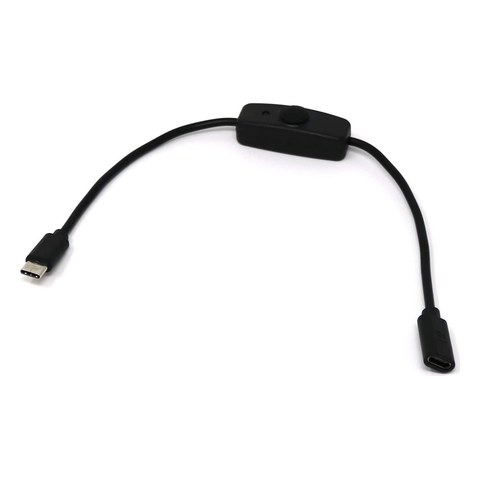
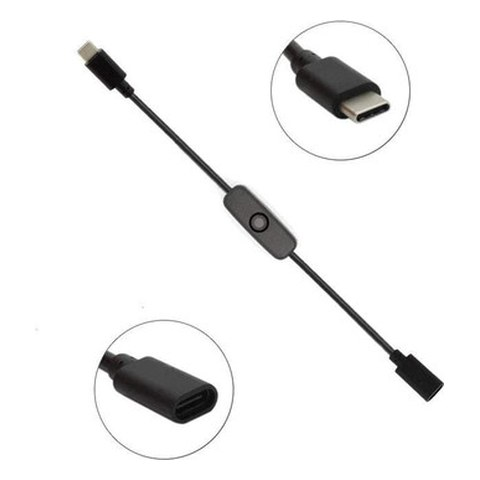
Parts list renamed PARTS-BOM.md, with the Canadian stores
The parts list is now docs/PARTS-BOM.md and ends with the stores where
each part was bought. The master switch is one sold in Canada. Packs
say in bold that the radio uses 1. The wiring drawings show the Pi's
picture on every Pi box, and the lamp drawing shows the four ends of
the USB-A socket on wires.

diff --git a/tests/test_repo.py b/tests/test_repo.py
@@ -115,7 +115,7 @@ class Guides(unittest.TestCase):
     """The guides and what they show: the parts list, the pictures set side by side, the case plans."""
 
     def test_the_parts_list_has_21_parts_each_with_its_label_quantity_and_sheet(self):
-        text = read("docs", "BOM.md")
+        text = read("docs", "PARTS-BOM.md")
         rows = re.findall(r"^\| \*\*(A\d+)\*\* \| <img [^|]*\| \[[^]]+\]\(#(a\d+)\) \| ([^|]+) \|", text, re.M)
         self.assertEqual([r[0] for r in rows], ["A%d" % n for n in range(1, 22)])
         for label, anchor, qty in rows:

diff --git a/docs/PARTS-BOM.md b/docs/PARTS-BOM.md
@@ -5,7 +5,7 @@ The radio has 21 parts, labelled A1 to A21. The drawings in [WIRING.md](WIRING.m
 version 1.0: **wired** means it is part of the bench build, and **planned** means it is in the design and not connected
 yet.
 
-The references are the parts I ordered, except A16, A20 and A21, which I picked and have not ordered yet. Any
+The references are the parts I ordered, except A12, A16, A19, A20 and A21, which I picked and have not ordered yet. Any
 equivalent part works, except where a note says otherwise. The sizes and the electrical values come from each maker's
 or seller's page, read between 10 and 16 November 2026. I have measured none of them myself. The openings of the case
 are another matter: they are measured in its print files.
@@ -15,7 +15,7 @@ are another matter: they are measured in its print files.
 | No. | &nbsp;&nbsp;&nbsp;&nbsp;&nbsp;&nbsp;&nbsp;&nbsp;&nbsp;&nbsp;&nbsp;&nbsp;&nbsp;&nbsp;&nbsp;&nbsp;&nbsp;&nbsp;&nbsp;&nbsp;&nbsp;&nbsp;&nbsp;&nbsp; | Part | Qty | What it does | In version 1.0 |
 |---|---|---|---|---|---|
 | **A1** | <img src="images/parts/a01-raspberry-pi-4.jpg" width="96" alt="Raspberry Pi 4 Model B, 1 GB"> | [Raspberry Pi 4 Model B, 1 GB](#a1) | **×1** | Runs the radio program, plays the sounds and drives the screens | Wired |
-| **A2** | <img src="images/parts/a02-power-supply.jpg" width="96" alt="USB-C power supply, 5.1 V 3 A"> | [USB-C power supply, 5.1 V 3 A](#a2) | **×1, in the A1 kit** | Powers the whole radio through one cable | Wired |
+| **A2** | <img src="images/parts/a02-power-supply.jpg" width="96" alt="USB-C power supply, 5.1 V 3 A"> | [USB-C power supply, 5.1 V 3 A](#a2) | **×1, came with A1** | Powers the whole radio through one cable | Wired |
 | **A3** | <img src="images/parts/a03-microsd-card.jpg" width="96" alt="microSD card, 32 GB"> | [microSD card, 32 GB](#a3) | **×1** | Holds Raspberry Pi OS and the radio program | Wired |
 | **A4** | <img src="images/parts/a04-sd-adapter.jpg" width="96" alt="microSD to SD adapter"> | [microSD to SD adapter](#a4) | **×1** | Lets a computer's SD slot write the card | Wired |
 | **A5** | <img src="images/parts/a05-bar-display.jpg" width="96" alt="3.7 in bar display, 240 × 960 pixels"> | [3.7 in bar display, 240 × 960 pixels](#a5) | **×2** | Shows the frequency, the channel and the spectrum. The two sit end to end behind the window | One wired, one planned |
@@ -44,8 +44,8 @@ Five notes on these parts.
   240 × 960 bar.
 - **Use wires with a socket at each end on the Pi's pins.** The bench build first used crocodile clip leads. Their
   clips are too wide for pins that sit 2.54 mm apart and they did not hold, so A19 replaces them.
-- **A2 comes with A1 in the kit.** The Pi kit I ordered has its power supply in the box. Buy A2 only if your Pi
-  came without one. The radio needs one supply.
+- **A2 comes with A1 in the kit.** My Pi came with its power supply in the same order. Buy A2 only if your Pi
+  comes without one. The radio needs one supply.
 - **One cable powers everything.** The supply A2 plugs into the socket A20 on the back. Inside, the switch cable A21
   takes the power to the Pi, and the Pi powers every other part through its USB ports and its header.
   [WIRING.md](WIRING.md#power) shows the path.
@@ -58,13 +58,13 @@ One sheet for each part, in the order of the list.
 
 | | |
 |---|---|
-| <img src="images/parts/a01-raspberry-pi-4.jpg" width="200" alt="Raspberry Pi 4 Model B, 1 GB"> | Runs the radio program, plays the sounds and drives the screens. Every other part takes its power from it.<br><br>**Quantity:** ×1<br>**In version 1.0:** wired<br>**Reference:** PiShop 1GB-9002, a kit with a power supply (A2) and 3 heat sinks<br>**Connects:** Every other part connects to it. [The diagram](WIRING.md#every-part-and-every-link) shows each link.<br>**Processor:** Broadcom BCM2711, four Cortex-A72 cores<br>**Memory:** 1 GB<br>**Ports:** 2 USB 3.0, 2 USB 2.0, USB-C for power<br>**Header:** 40 pins<br>**Audio:** 3.5 mm jack, 4 poles<br>**Board:** 85 × 56 mm<br>**Maker's page:** https://datasheets.raspberrypi.com/rpi4/raspberry-pi-4-product-brief.pdf |
+| <img src="images/parts/a01-raspberry-pi-4.jpg" width="200" alt="Raspberry Pi 4 Model B, 1 GB"> | Runs the radio program, plays the sounds and drives the screens. Every other part takes its power from it.<br><br>**Quantity:** ×1<br>**In version 1.0:** wired<br>**Reference:** PiShop 1GB-9002, bought with a power supply (A2) and 3 heat sinks<br>**Connects:** Every other part connects to it. [The diagram](WIRING.md#every-part-and-every-link) shows each link.<br>**Processor:** Broadcom BCM2711, four Cortex-A72 cores<br>**Memory:** 1 GB<br>**Ports:** 2 USB 3.0, 2 USB 2.0, USB-C for power<br>**Header:** 40 pins<br>**Audio:** 3.5 mm jack, 4 poles<br>**Board:** 85 × 56 mm<br>**Maker's page:** https://datasheets.raspberrypi.com/rpi4/raspberry-pi-4-product-brief.pdf |
 
 ### <a id="a2"></a>A2. USB-C power supply, 5.1 V 3 A
 
 | | |
 |---|---|
-| <img src="images/parts/a02-power-supply.jpg" width="200" alt="USB-C power supply, 5.1 V 3 A"> | Powers the whole radio. Its cable is the only one that leaves the case: it plugs into the socket A20 on the back.<br><br>**Quantity:** ×1, in the A1 kit<br>**In version 1.0:** wired<br>**Reference:** The supply that came in the box with A1. Raspberry Pi's own 15 W USB-C supply is the model to buy on its own, and the one the switch cable A21 is made for.<br>**Connects:** Its cable plugs into the socket A20, direct. On the bench it plugs straight into the Pi.<br>**Output:** 5.1 V, 3 A<br>**Plug:** USB-C. On Raspberry Pi's own supply it ends a 1.5 m cable that does not come off.<br>**Maker's page:** https://www.raspberrypi.com/products/type-c-power-supply/ |
+| <img src="images/parts/a02-power-supply.jpg" width="200" alt="USB-C power supply, 5.1 V 3 A"> | Powers the whole radio. Its cable is the only one that leaves the case: it plugs into the socket A20 on the back.<br><br>**Quantity:** ×1, came with A1<br>**In version 1.0:** wired<br>**Reference:** The supply that came with A1 in my order. Raspberry Pi's own 15 W USB-C supply is the model to buy on its own, and the one the switch cable A21 is made for.<br>**Connects:** Its cable plugs into the socket A20, direct. On the bench it plugs straight into the Pi.<br>**Output:** 5.1 V, 3 A<br>**Plug:** USB-C. On Raspberry Pi's own supply it ends a 1.5 m cable that does not come off.<br>**Maker's page:** https://www.raspberrypi.com/products/type-c-power-supply/ |
 
 ### <a id="a3"></a>A3. microSD card, 32 GB
 
@@ -118,13 +118,13 @@ One sheet for each part, in the order of the list.
 
 | | |
 |---|---|
-| <img src="images/parts/a11-step-up-cable.jpg" width="200" alt="USB 5 V to 12 V step-up cable"> | The meters' lamps need 12 V and the Pi only has 5 V. This cable takes 5 V on its USB-A plug and gives 12 V on two bare wires, red for + and black for −. Its plug goes into the socket A12, and its two wires go to the lamps of the two meters.<br><br>**Quantity:** ×1<br>**In version 1.0:** planned<br>**Reference:** SinLoon, Amazon B0F2YKGS25. It comes in a pack of 3.<br>**Connects:** Its USB plug goes into A12, direct. Its red and black wires go to the lamps of A9, direct.<br>**Input:** USB-A plug, 5 V, 2 A at most<br>**Output:** 12 V, 0.8 A at most, on bare wires<br>**Length:** 88 cm |
+| <img src="images/parts/a11-step-up-cable.jpg" width="200" alt="USB 5 V to 12 V step-up cable"> | The meters' lamps need 12 V and the Pi only has 5 V. This cable takes 5 V on its USB-A plug and gives 12 V on two bare wires, red for + and black for −. Its plug goes into the socket A12, and its two wires go to the lamps of the two meters.<br><br>**Quantity:** ×1<br>**In version 1.0:** planned<br>**Reference:** SinLoon, Amazon B0F2YKGS25. It comes in a pack of 3: **the radio uses 1**.<br>**Connects:** Its USB plug goes into A12, direct. Its red and black wires go to the lamps of A9, direct.<br>**Input:** USB-A plug, 5 V, 2 A at most<br>**Output:** 12 V, 0.8 A at most, on bare wires<br>**Length:** 88 cm |
 
 ### <a id="a12"></a>A12. USB-A socket on four jumper wires
 
 | | |
 |---|---|
-| <img src="images/parts/a12-usb-a-socket-on-wires.jpg" width="200" alt="USB-A socket on four jumper wires"> | The four USB ports of the Pi are taken by the two Qualia boards, the keypad and the sound adapter. This short cable gives the step-up cable A11 a fifth USB-A socket, fed from two pins of the Pi's header. Only its red and black wires are used.<br><br>**Quantity:** ×1<br>**In version 1.0:** planned<br>**Reference:** Adafruit 4449<br>**Connects:** Its red and black ends slide onto pins 4 and 34 of the Pi, direct. A11 plugs into its socket.<br>**Socket:** USB-A female, on a 30 cm cable<br>**Wires:** Four female ends spaced 2.54 mm. Red is 5 V and goes to pin 4. Black is ground and goes to pin 34. Green and white are the data lines and stay free, each one insulated.<br>**Maker's page:** https://www.adafruit.com/product/4449 |
+| <img src="images/parts/a12-usb-a-socket-on-wires.jpg" width="200" alt="USB-A socket on four jumper wires"> | The four USB ports of the Pi are taken by the two Qualia boards, the keypad and the sound adapter. This short cable gives the step-up cable A11 a fifth USB-A socket, fed from two pins of the Pi's header. Only its red and black wires are used.<br><br>**Quantity:** ×1<br>**In version 1.0:** planned<br>**Reference:** Adafruit 4449. I have not ordered it yet.<br>**Connects:** Its red and black ends slide onto pins 4 and 34 of the Pi, direct. A11 plugs into its socket.<br>**Socket:** USB-A female, on a 30 cm cable<br>**Wires:** Four female ends spaced 2.54 mm. Red is 5 V and goes to pin 4. Black is ground and goes to pin 34. Green and white are the data lines and stay free, each one insulated.<br>**Maker's page:** https://www.adafruit.com/product/4449 |
 
 ### <a id="a13"></a>A13. MonkMakes Amplified Speaker 2
 
@@ -160,13 +160,13 @@ One sheet for each part, in the order of the list.
 
 | | |
 |---|---|
-| <img src="images/parts/a18-trrs-plug.jpg" width="200" alt="3.5 mm TRRS plug with screw terminals"> | A 3.5 mm plug whose four contacts end in screw terminals. The microphone's two audio wires, from the socket A16, are screwed in here, and the plug goes into the jack of the sound adapter A17. No soldering at this end.<br><br>**Quantity:** ×1<br>**In version 1.0:** planned<br>**Reference:** Amazon B08QFHHJ3Z. It comes in a pack of 2.<br>**Connects:** Plugs into the jack of A17, direct. The wires from A16 go into its screw terminals.<br>**Plug:** 3.5 mm male, 4 poles<br>**Terminals:** 4 screw terminals<br>**Length:** 32 cm |
+| <img src="images/parts/a18-trrs-plug.jpg" width="200" alt="3.5 mm TRRS plug with screw terminals"> | A 3.5 mm plug whose four contacts end in screw terminals. The microphone's two audio wires, from the socket A16, are screwed in here, and the plug goes into the jack of the sound adapter A17. No soldering at this end.<br><br>**Quantity:** ×1<br>**In version 1.0:** planned<br>**Reference:** Amazon B08QFHHJ3Z. It comes in a pack of 2: **the radio uses 1**.<br>**Connects:** Plugs into the jack of A17, direct. The wires from A16 go into its screw terminals.<br>**Plug:** 3.5 mm male, 4 poles<br>**Terminals:** 4 screw terminals<br>**Length:** 32 cm |
 
 ### <a id="a19"></a>A19. Female-to-female jumper wires, 30 cm
 
 | | |
 |---|---|
-| <img src="images/parts/a19-jumper-wires.jpg" width="200" alt="Female-to-female jumper wires, 30 cm"> | Join the Pi's header to the speaker's pins, to the needles and to the push-to-talk wires. A socket at each end slides onto a pin, so nothing is clipped.<br><br>**Quantity:** ×1 strip of 20<br>**In version 1.0:** wired<br>**Reference:** Adafruit 1949<br>**Connects:** 12 of the 20: two for the speaker, three for each needle, two for the push-to-talk button, two from the microphone socket to A18.<br>**Ends:** Female at both ends, spaced 2.54 mm<br>**Length:** 30 cm<br>**Wire:** 28 AWG, in a ribbon of 20 that peels apart<br>**Maker's page:** https://www.adafruit.com/product/1949 |
+| <img src="images/parts/a19-jumper-wires.jpg" width="200" alt="Female-to-female jumper wires, 30 cm"> | Join the Pi's header to the speaker's pins, to the needles and to the push-to-talk wires. A socket at each end slides onto a pin, so nothing is clipped.<br><br>**Quantity:** ×1 strip of 20<br>**In version 1.0:** wired<br>**Reference:** Adafruit 1949. I have not ordered it yet.<br>**Connects:** 12 of the 20: two for the speaker, three for each needle, two for the push-to-talk button, two from the microphone socket to A18.<br>**Ends:** Female at both ends, spaced 2.54 mm<br>**Length:** 30 cm<br>**Wire:** 28 AWG, in a ribbon of 20 that peels apart<br>**Maker's page:** https://www.adafruit.com/product/1949 |
 
 ### <a id="a20"></a>A20. USB-C panel socket on a 30 cm cable
 
@@ -178,7 +178,37 @@ One sheet for each part, in the order of the list.
 
 | | |
 |---|---|
-| <img src="images/parts/a21-switch-cable.jpg" width="200" alt="USB-C cable with an on and off switch"> | The master switch: one click cuts the power of the whole radio, and a red light shows when it is on.<br><br>**Quantity:** ×1<br>**In version 1.0:** planned<br>**Reference:** The Pi Hut 102509. I have not ordered it yet.<br>**Connects:** From the cable of A20 to the Pi's USB-C port, direct.<br>**Ends:** USB-C female to USB-C male<br>**Length:** About 31 cm<br>**Switch:** Push to turn on, push again to turn off, with a red light<br>**Use:** Made for the Raspberry Pi 4 with its own power supply. It passes power only, no data.<br>**Maker's page:** https://thepihut.com/products/usb-c-cable-with-switch |
+| <img src="images/parts/a21-switch-cable.jpg" width="200" alt="USB-C cable with an on and off switch"> | The master switch: one press cuts the power of the whole radio.<br><br>**Quantity:** ×1<br>**In version 1.0:** planned<br>**Reference:** PiShop, Power Switch for Raspberry Pi 4, USB-C. I have not ordered it yet.<br>**Connects:** From the cable of A20 to the Pi's USB-C port, direct.<br>**Ends:** USB-C female, where the cable of A20 plugs in, to USB-C male, which goes into the Pi<br>**Length:** 27 cm<br>**Switch:** A button in the middle of the cable<br>**Use:** Made for the Raspberry Pi 4 with its usual supply. It passes power only, no data. It does not work with a Raspberry Pi 5.<br>**Seller's page:** https://www.pishop.ca/product/power-switch-for-raspberry-pi-4-usb-c/ |
+
+## Where I bought them, in Canada
+
+I live in Canada and bought the parts from these stores. I cannot say what is sold in your country. Where a part
+comes from a maker such as Adafruit, Raspberry Pi or MonkMakes, the maker's own page lists its sellers around the
+world.
+
+| No. | Store | Page |
+|---|---|---|
+| **A1** | PiShop | <https://www.pishop.ca/product/raspberry-pi-4-model-b-1gb/> |
+| **A2** | PiShop | <https://www.pishop.ca/product/raspberry-pi-15w-power-supply-us-black/> |
+| **A3** | Amazon.ca | <https://www.amazon.ca/dp/B08KSSXKYR> |
+| **A4** | Digi-Key | <https://www.digikey.ca/en/products/result?keywords=1528-5447-ND> |
+| **A5** | Digi-Key | <https://www.digikey.ca/en/products/result?keywords=1528-5799-ND> |
+| **A6** | Digi-Key | <https://www.digikey.ca/en/products/result?keywords=1528-5800-ND> |
+| **A7** | PiShop | <https://www.pishop.ca/product/usb-type-c-to-usb-2-0-a-male-cable-3ft/> |
+| **A8** | Amazon.ca | <https://www.amazon.ca/dp/B0DN9T9J75> |
+| **A9** | Amazon.ca | <https://www.amazon.ca/dp/B0GV1VC7PZ> |
+| **A10** | PiShop | <https://www.pishop.ca/product/breadboard-trim-potentiometer-10k/> |
+| **A11** | Amazon.ca | <https://www.amazon.ca/dp/B0F2YKGS25> |
+| **A12** | Digi-Key, not bought yet | <https://www.digikey.ca/en/products/result?keywords=adafruit%204449> |
+| **A13** | PiShop | <https://www.pishop.ca/product/amplified-speaker-2-for-raspberry-pi-arduino/> |
+| **A14** | Amazon.ca | <https://www.amazon.ca/dp/B08F2GRHXC> |
+| **A15** | Amazon.ca | <https://www.amazon.ca/dp/B008CLIB5K> |
+| **A16** | CB Radio Supply, in the United States, not bought yet | <https://cbradiosupply.com/products/cb-radio-accessories-workman-c-4p-replacement-4-pin-cb-radio-microphone-panel-jack-mount> |
+| **A17** | Amazon.ca | <https://www.amazon.ca/dp/B07RS11M1T> |
+| **A18** | Amazon.ca | <https://www.amazon.ca/dp/B08QFHHJ3Z> |
+| **A19** | Digi-Key, not bought yet | <https://www.digikey.ca/en/products/result?keywords=adafruit%201949> |
+| **A20** | Digi-Key, not bought yet | <https://www.digikey.ca/en/products/result?keywords=adafruit%204218> |
+| **A21** | PiShop, not bought yet | <https://www.pishop.ca/product/power-switch-for-raspberry-pi-4-usb-c/> |
 
 ## Where the pictures come from
 

diff --git a/docs/WIRING.md b/docs/WIRING.md
@@ -4,7 +4,7 @@ This guide has two parts. The first is the bench build of version 1.0: seven con
 second is the plan for the whole radio, with its meters, its microphone and its second screen. I have built and tested
 the first part. The second part is a design that I have not built yet.
 
-The drawings and the tables name each part by its label in [the parts list](BOM.md), from A1 to A21.
+The drawings and the tables name each part by its label in [the parts list](PARTS-BOM.md), from A1 to A21.
 
 ## How the parts connect
 
@@ -20,7 +20,7 @@ the power on to the Pi. [Power](#power) shows that path.
 
 ## Every part and every link
 
-Each link is marked one of two ways. A yellow chip names the part from [the parts list](BOM.md) that makes the link.
+Each link is marked one of two ways. A yellow chip names the part from [the parts list](PARTS-BOM.md) that makes the link.
 "direct" means the two plug into each other with nothing between them.
 
 ![Every part of the finished radio, and every link between them](images/wiring/every-link.png)
@@ -33,7 +33,7 @@ Five parts are there only to make a link, and the drawing shows where each one s
 | A17, the USB sound adapter | The Pi has a sound output and no microphone input. A17 plugs into a USB-A port and adds one. |
 | A18, the TRRS plug with screws | It is the plug that goes into A17's jack. The two sound wires of the microphone socket A16 are screwed into it. |
 | A12, the USB-A socket on wires | The Pi's four USB-A ports are taken: two Qualia boards, the keypad and A17. A12 is a fifth socket, for power only, fed by pins 4 and 34 of the header. |
-| A11, the step-up cable | The meters' lamps need 12 V. A11 plugs into A12, takes its 5 V and gives 12 V on two wires that go to the lamps. It comes in a pack of 3, and the radio uses one. |
+| A11, the step-up cable | The meters' lamps need 12 V. A11 plugs into A12, takes its 5 V and gives 12 V on two wires that go to the lamps. It comes in a pack of 3: **the radio uses 1**. |
 
 No cable goes to a computer. The radio works alone and joins the network over the Pi's Wi-Fi.
 
@@ -198,7 +198,7 @@ One cable powers the whole radio: the cable of the power supply (A2). Nothing el
 |---|---|---|
 | 1 | The power supply (A2) | 5.1 V and 3 A from the wall |
 | 2 | The socket on the back (A20) | The supply plugs in from outside. The socket's 30 cm cable takes the power inside. |
-| 3 | The switch cable (A21) | One click turns the whole radio on or off. Its red light shows when the power is on. |
+| 3 | The switch cable (A21) | One press of its button turns the whole radio on or off. |
 | 4 | The Pi (A1) | It takes the power on its USB-C port and passes it on to every other part |
 | 5 | The Pi's four USB-A ports | The two Qualia boards with their displays, the keypad and the sound adapter |
 | 6 | The Pi's header, pins 2 and 6 | The speaker |

diff --git a/README.md b/README.md
@@ -7,7 +7,7 @@ some of them with the Stinger OS app. This repository holds what I use to build 
 the program for the screen, a utility that prepares the Pi's card from a Mac or a PC, the parts list, the wiring, and
 the files for the case.
 
-**[Parts](docs/BOM.md) · [Wiring](docs/WIRING.md) · [Setup](docs/SETUP.md) · [How it works](docs/HOW-IT-WORKS.md) ·
+**[Parts](docs/PARTS-BOM.md) · [Wiring](docs/WIRING.md) · [Setup](docs/SETUP.md) · [How it works](docs/HOW-IT-WORKS.md) ·
 [The case](print/README.md) · [Troubleshooting](docs/TROUBLESHOOTING.md) ·
 [Contributing](.github/CONTRIBUTING.md)**
 
@@ -95,7 +95,7 @@ This is a hobby build at low voltage. Check your wiring before you power it, and
 
 ## What you need
 
-- The parts marked **Wired** in [the parts list](docs/BOM.md). Nothing needs soldering.
+- The parts marked **Wired** in [the parts list](docs/PARTS-BOM.md). Nothing needs soldering.
 - A computer with Python 3.8 or later and a reader for the microSD card.
 - [Raspberry Pi Imager](https://www.raspberrypi.com/software/) to write the system to the card.
 
@@ -127,7 +127,7 @@ lists the problems I ran into with their fixes.
 
 | Guide | What it holds |
 |---|---|
-| [Parts](docs/BOM.md) | The 21 parts of the radio, A1 to A21, with a quantity, a picture and a sheet for each |
+| [Parts](docs/PARTS-BOM.md) | The 21 parts of the radio, A1 to A21, with a quantity, a picture and a sheet for each |
 | [Wiring](docs/WIRING.md) | The bench build connection by connection, the pins of the Pi, and the wiring plan of the whole radio |
 | [Setup](docs/SETUP.md) | The card, the first start and the installer, step by step |
 | [How the radio works](docs/HOW-IT-WORKS.md) | The two programs, the messages between them, and how to change the sounds, the channels and the colours |

diff --git a/CHANGELOG.md b/CHANGELOG.md
@@ -11,6 +11,10 @@ These changes are in the guides only. The programs are those of 1.0.0.
   switch cable that is the master switch (A21). The USB-C cable to a computer is no longer in the list.
 - The microphone socket for the face has a reference, the Workman C-4P (A16), and every part has a picture.
 - The wiring guide explains the power path, and the wiring drawings use the new labels.
+- The parts list is now `docs/PARTS-BOM.md`. It ends with the Canadian stores where I bought each part, and the master
+  switch A21 is now one sold in Canada.
+- The wiring drawings show a picture of every part, the Pi included. The speaker and the meters' lamps have a drawing
+  each.
 - The repository has a contributing guide, a security policy, a code of conduct, two issue forms and a pull request
   template, in `.github/`.
 

diff --git a/docs/TROUBLESHOOTING.md b/docs/TROUBLESHOOTING.md
@@ -78,7 +78,7 @@ The Pi's jack sometimes starts at a low level. The radio program sets it to full
 ### A clip slips off or touches two pins of the speaker
 
 Crocodile clips are wider than the gap between the pins, and they do not hold. Use female-to-female jumper wires
-(A19 in [the parts list](BOM.md)): one socket slides onto the Pi's pin and the other onto the speaker's pin.
+(A19 in [the parts list](PARTS-BOM.md)): one socket slides onto the Pi's pin and the other onto the speaker's pin.
 
 ## The keypad
 

diff --git a/print/README.md b/print/README.md
@@ -9,7 +9,7 @@ every opening of its face, how each part is meant to print, and what is still mi
 
 ![The front of the radio with its seven parts marked and its width](../images/renders/ws79-front-annotated.jpg)
 
-| Mark | On the face | Part in [the parts list](../docs/BOM.md) |
+| Mark | On the face | Part in [the parts list](../docs/PARTS-BOM.md) |
 |---|---|---|
 | 1 | The window of the two bar displays | 3 |
 | 2 | The speaker grille | 11, behind the face |
